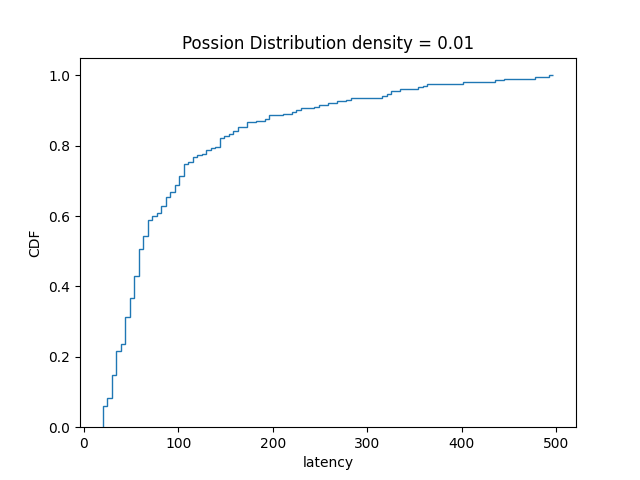
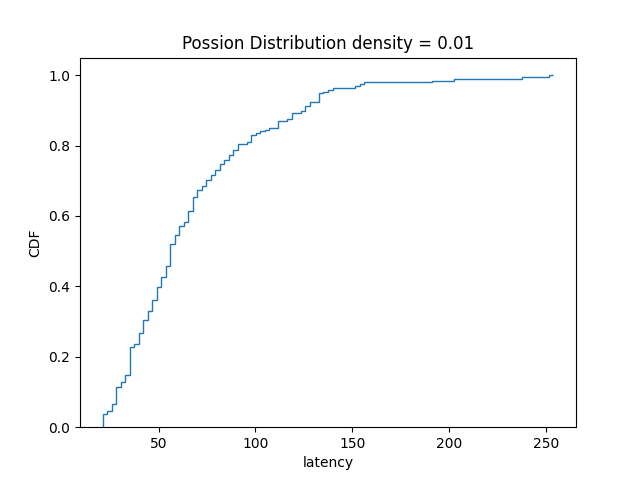
4.3

diff --git a/env_main.py b/env_main.py
@@ -20,7 +20,7 @@ from compute.aug_server import ShareCompServer  # vehicle server
 
 class env_main():
     def __init__(self, num_vehicles=20, capacity_vehicle=10, bandwidth_ul=1.0, bandwidth_dl=1.0,
-                 poisson_density = 0.5, length = 100 , mode = 'base'):
+                 poisson_density = 0.01, length = 100 , mode = 'base'):
         self.num_vehicles = num_vehicles
         print("number of simulated vehicles ", num_vehicles)
         np.random.seed(int(time.time()*1000000)%1000)
@@ -32,7 +32,7 @@ class env_main():
         self.time = 0 # reset the decision time
         self.length = length
         self.Vehicles = []
-
+        self.mode = mode
         self.stats = {'latency':[],}
         ###################################### generate vehicles ################################################ 
 
@@ -97,10 +97,28 @@ class env_main():
         
         
     def run_algorithm(self, tasks):
-        for task in tasks:
-            # np.random.seed(int(time.time()*1000000)%1000)
-            # task.vid = np.random.randint(self.num_vehicles)
-            task.vid = task.generated_vid
+        ############################# local computing mode ####################
+        if self.mode == 'base':
+            for task in tasks:
+                task.vid = task.generated_vid
+    
+        ############################# edge computing mode ####################
+        free_vehicle_id = list(range(self.num_vehicles))
+        for tk in tasks:
+            try:
+                free_vehicle_id.remove(tk.generated_vid)
+            except:
+                pass
+        
+        for v in self.Vehicles:
+            if v.tasks:
+                try:
+                    free_vehicle_id.remove(v.vid)
+                except:
+                    pass
+        
+        pass
+        
 
     def step(self, ):
         
@@ -139,8 +157,6 @@ class env_main():
         # remove local computing tasks
         for tk in remove_list:
             tasks.remove(tk)
-        
-        pass
     
         for tk in tasks:
             self.downlink.enqueue_task(tk)
@@ -206,11 +222,11 @@ class env_main():
 if __name__ == '__main__':
     import argparse
     parser = argparse.ArgumentParser()
-    parser.add_argument('--length', type=int, default=1000)
+    parser.add_argument('--length', type=int, default=60000)
     parser.add_argument('--exp_name', type=str, default='env_main')
     parser.add_argument('--car_num', type=int, default=20)
     parser.add_argument('--traffic', type=int, default=10)
-    parser.add_argument('-pd','--poisson_density', type=float, default=0.5)
+    parser.add_argument('-pd','--poisson_density', type=float, default=0.001)
     parser.add_argument('--mode', type=str, default="base")
     args = parser.parse_args()
 
@@ -218,7 +234,7 @@ if __name__ == '__main__':
                    length =args.length, mode = args.mode) 
 
     start_time = time.time()
-    for i in tqdm(range(10*args.length)):
+    for i in tqdm(range(2*args.length)):
         # random select vid and action
         initial_state = env.step()
     print("time usage:", time.time()-start_time)
